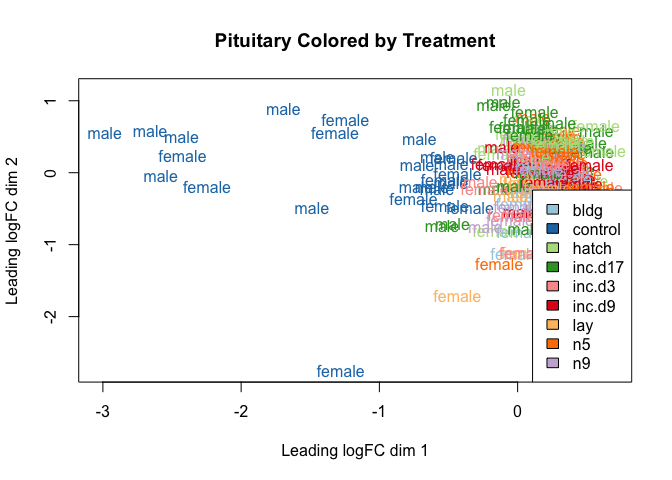
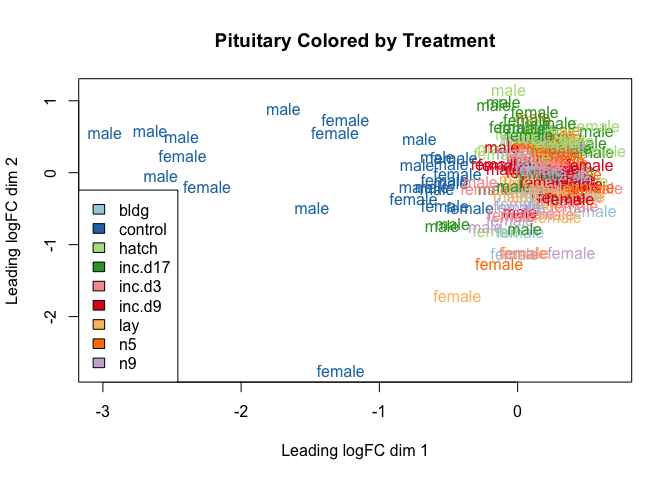
move legend

Changed region(s): [[0.7812, 0.375, 0.9375, 0.7812], [0.125, 0.375, 0.2812, 0.7812]]

diff --git a/scripts/03_limma_pit.md b/scripts/03_limma_pit.md
@@ -157,7 +157,7 @@ For color coding, I used this tutorial for guidance
     col.treatment <- c("#a6cee3", "#1f78b4", "#b2df8a", "#33a02c", "#fb9a99", "#e31a1c", "#fdbf6f", "#ff7f00", "#cab2d6")[colData$treatment]
 
     plotMDS(parentalobject,col=col.treatment, labels = colData$sex)
-    legend("bottomright",fill=c("#a6cee3", "#1f78b4", "#b2df8a", "#33a02c", "#fb9a99", "#e31a1c", "#fdbf6f", "#ff7f00", "#cab2d6"),legend=levels(colData$treatment))
+    legend("bottomleft",fill=c("#a6cee3", "#1f78b4", "#b2df8a", "#33a02c", "#fb9a99", "#e31a1c", "#fdbf6f", "#ff7f00", "#cab2d6"),legend=levels(colData$treatment))
     title("Pituitary Colored by Treatment")
 
 ![](../figures/pit/plotMDS-lables-1.png)
